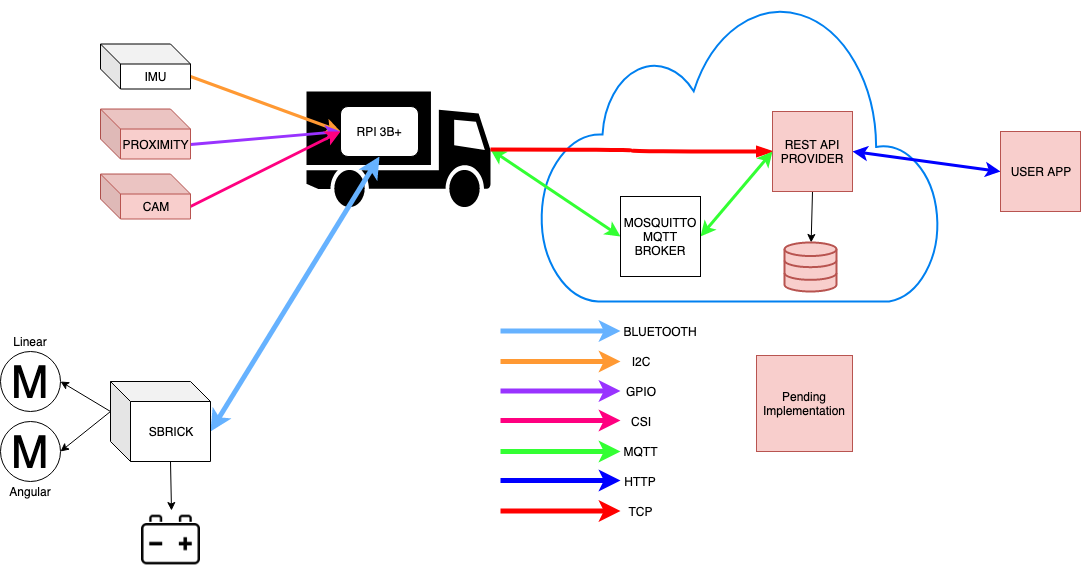
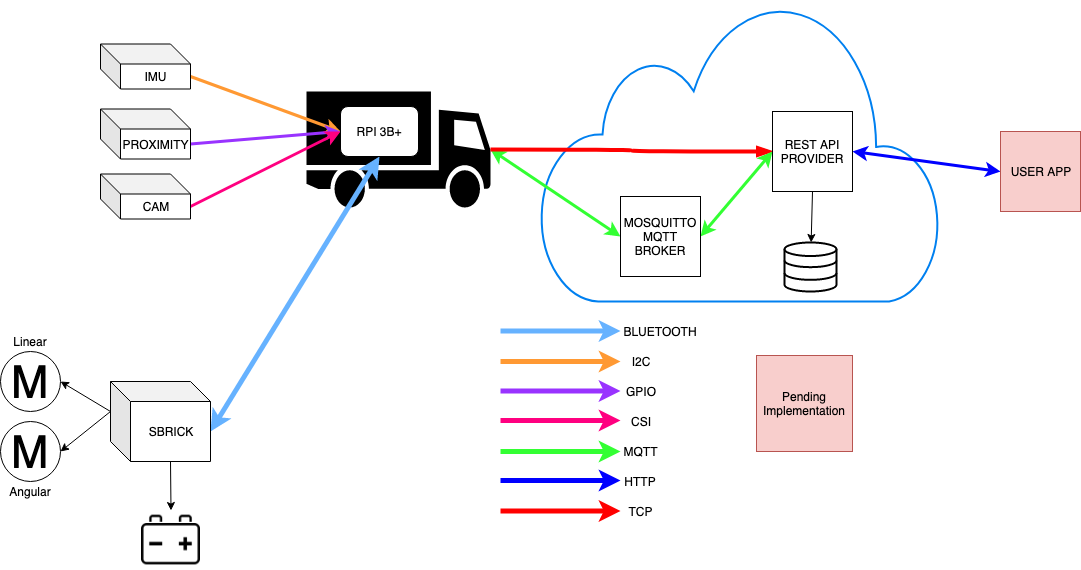
Updated readme

Changed region(s): [[0.0916, 0.1789, 0.2442, 0.3877], [0.7021, 0.1789, 0.7937, 0.3579], [0.7021, 0.4175, 0.7937, 0.5368]]

diff --git a/config/cameraRunner.py b/config/cameraRunner.py
@@ -63,11 +63,11 @@ class StreamingServer(socketserver.ThreadingMixIn, server.HTTPServer):
     allow_reuse_address = True
     daemon_threads = True
 
-with picamera.PiCamera(resolution='640x480', framerate=40) as camera:
+with picamera.PiCamera(resolution='640x480', framerate=30) as camera:
     output = StreamingOutput()
     #Uncomment the next line to change your Pi's Camera rotation (in degrees)
     camera.rotation = 180
-    camera.start_recording(output, format='mjpeg')
+    camera.start_recording(output, format='h264', quality=23)
     try:
         address = ('', 8000)
         server = StreamingServer(address, StreamingHandler)

diff --git a/README.md b/README.md
@@ -10,8 +10,10 @@ For this example we are using a remote control LEGO Truck (Mercedes-Benz Arocs) 
 ## Required hardware
 
 - MPU-9250 (IMU);
-- Camera Module;
-- Sonar Module;
+- PiCam V2 Camera Module;
+- HC-SR05 Sonar Module;
+- 1kOhm resistor
+- 2kOhm resistor
 - Micro SD card + Adaptor to connect to your laptop;
 - Raspberry Pi 3 Model B+ (RPi) + Charger;
 - Keyboard + mouse + screen;
@@ -42,12 +44,15 @@ The sensor will have the GND, VCC, SDA and SCL pins connected to the RPi. Here y
 
 You should connect:
 
-| Raspberry Pi (RPi) | Sensor MPU-9250 |
-| ------ | ------ |
-| 3.3 VDC Power - 1 | VCC |
-| GPIO 8 SDA1 (I2C) - 3 | SDA |
-| GPIO 9 SCL1 (I2C) - 5 | SCL |
-| Ground - 9 | GND |
+| Raspberry Pi (RPi) | Sensor MPU-9250 | Sensor HC-SR05
+| ------ | ------ | ------ |
+| 3.3 VDC Power - 1 | VCC | ---- |
+| 5 VDC Power - 2 | ---- | VCC |
+| GPIO 2 SDA1 (I2C) - 3 | SDA | ----|
+| GPIO 3 SCL1 (I2C) - 5 | SCL | ----|
+| GPIO 17 - 11 | ---- | TRIG | 
+| GPIO 27 - 11 | ---- | ECHO Voltage Divider - [Check this](#setting-up-the-proximity-sensors) | 
+| Ground - 9 | GND | GND |
 
 ---
 
@@ -362,17 +367,35 @@ get_adc = {
 
 ### Setting up the Camera
 
-Still not implemented
+#### Step 1:
+
+With the RPi turned off, connect the camera.
+
+#### Step 2:
+Go to the terminal and type
+
+        sudo raspi-config
+
+#### Step 3:
+
+Go to Interfacing-Options -> Camera -> Enable and reboot
+
+#### Step 4:
+Test the camera with 
+
+        raspistill -v -o test.jpg
 
 ---
 
 ### Setting up the Proximity Sensors
 
-Still not implemented
+Follow [this](https://thepihut.com/blogs/raspberry-pi-tutorials/hc-sr04-ultrasonic-range-sensor-on-the-raspberry-pi) guide on the PiHut in order to mount the Proximity Sensor
+
+##### Note: Instead of using the GPIO 23 for the TRIG and 24 for the ECHO, use the ports 17 for the TRIG and 27 for the ECHO.
 
 ---
 
-### Running the program
+## Running the program
 
 After all the setting up is done just run [main.py](main.py) like
 ```
@@ -386,6 +409,8 @@ python main.py
 The sampling rate defined for the components is not precise, there is always an error of around +2% on the actual sampling interval. For example, the system is supposed to read and publish the IMU values every 12ms, but the delta between two timestamps is not 12ms, but something around 12.11ms. Using higher sampling intervals such as 1 second yields similar results of around 1-2% error. This may be an issue related to the way the scheduler of the RPi OS functions.
 
 Another thing worth noting is that it takes roughly 0.04ms to poll data from the IMU.
+
+The code for the proximity sensors returns a moving average of the last 10 measurements in order to filter noise, since it is sampling at a high rate and small sample the reaction to change of the sensor is not very much affected, while the measurement results were shown to improve a lot.
 
 ---
 
